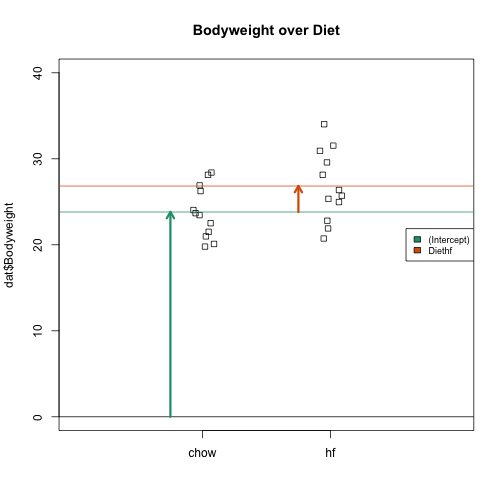
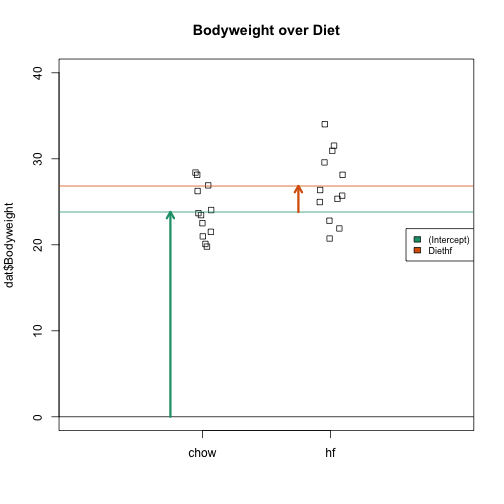
adding linear_models_in_practice to book

diff --git a/manuscript/linear_models_in_practice.md b/manuscript/linear_models_in_practice.md
@@ -1,0 +1,308 @@
+---
+title: Linear models in practice
+layout: page
+---
+
+
+
+## Linear Models In Practice
+
+R markdown document for this section available [here](https://github.com/genomicsclass/labs/tree/master/course2/linear_models_in_practice.Rmd).
+
+We will demonstrate how to analyze the high fat diet data using linear models instead of directly applying a t-test. We will demonstrate how, ultimately, these two approaches are equivalent. 
+
+We start by reading in the data and creating a quick stripchart:
+
+
+
+
+```r
+dat <- read.csv("femaleMiceWeights.csv") ##previously downloaded
+stripchart(dat$Bodyweight ~ dat$Diet, vertical=TRUE, method="jitter",
+           main="Bodyweight over Diet")
+```
+
+![Mice bodyweights stratified by diet.](images/R/linear_models_in_practice-tmp-bodyweight_by_diet_stripchart-1.png) 
+
+We can see that the high fat diet group appears to have higher weights on average, although there is overlap between the two samples.
+
+#### A linear model with one variable
+
+For demonstration purposes, we will build the design matrix {$$}\mathbf{X}{/$$} using the formula `~ Diet`. The group with the 1's in the second column is determined by the level of `Diet` which comes second; that is, the non-reference level. 
+
+
+```r
+levels(dat$Diet)
+```
+
+```
+## [1] "chow" "hf"
+```
+
+```r
+X <- model.matrix(~ Diet, data=dat)
+X
+```
+
+```
+##    (Intercept) Diethf
+## 1            1      0
+## 2            1      0
+## 3            1      0
+## 4            1      0
+## 5            1      0
+## 6            1      0
+## 7            1      0
+## 8            1      0
+## 9            1      0
+## 10           1      0
+## 11           1      0
+## 12           1      0
+## 13           1      1
+## 14           1      1
+## 15           1      1
+## 16           1      1
+## 17           1      1
+## 18           1      1
+## 19           1      1
+## 20           1      1
+## 21           1      1
+## 22           1      1
+## 23           1      1
+## 24           1      1
+## attr(,"assign")
+## [1] 0 1
+## attr(,"contrasts")
+## attr(,"contrasts")$Diet
+## [1] "contr.treatment"
+```
+
+```r
+colnames(X)
+```
+
+```
+## [1] "(Intercept)" "Diethf"
+```
+
+```r
+dat$Diet <- relevel(dat$Diet, ref="hf")
+model.matrix(~ Diet, data=dat)
+```
+
+```
+##    (Intercept) Dietchow
+## 1            1        1
+## 2            1        1
+## 3            1        1
+## 4            1        1
+## 5            1        1
+## 6            1        1
+## 7            1        1
+## 8            1        1
+## 9            1        1
+## 10           1        1
+## 11           1        1
+## 12           1        1
+## 13           1        0
+## 14           1        0
+## 15           1        0
+## 16           1        0
+## 17           1        0
+## 18           1        0
+## 19           1        0
+## 20           1        0
+## 21           1        0
+## 22           1        0
+## 23           1        0
+## 24           1        0
+## attr(,"assign")
+## [1] 0 1
+## attr(,"contrasts")
+## attr(,"contrasts")$Diet
+## [1] "contr.treatment"
+```
+
+After trying out the `relevel` function, we finally reset `chow` as the reference level because we want the comparison to be {$$}hf - chow{/$$}:
+
+
+```r
+dat$Diet <- relevel(dat$Diet, ref="chow")
+```
+
+## The Mathematics Behind lm()
+
+R markdown document for this section available [here](https://github.com/genomicsclass/labs/tree/master/course2/linear_models_in_practice.Rmd).
+
+Before we use our shortcut for running linear models, `lm`, we want to review what will happen internally. Inside of `lm`, we will form the design matrix {$$}\mathbf{X}{/$$}, and calculate the {$$}\boldsymbol{\beta}{/$$} which minimizes the sum of squares, as described in a previous lecture. The formula for this solution is:
+
+{$$} \hat{\boldsymbol{\beta}} = (\mathbf{X}^t \mathbf{X})^{-1} \mathbf{X}^t \mathbf{Y} {/$$}
+
+We can calculate this in R using our matrix multiplication operator `%*%`, the inverse function `solve` and the transpose function `t`.
+
+
+
+```r
+Y <- dat$Bodyweight
+X <- model.matrix(~ Diet, data=dat)
+solve(t(X) %*% X) %*% t(X) %*% Y
+```
+
+```
+##                  [,1]
+## (Intercept) 23.813333
+## Diethf       3.020833
+```
+
+These coefficients are the average of the control group and the difference of the averages:
+
+
+
+```r
+s <- split(dat$Bodyweight, dat$Diet)
+mean(s[["chow"]])
+```
+
+```
+## [1] 23.81333
+```
+
+```r
+mean(s[["hf"]]) - mean(s[["chow"]])
+```
+
+```
+## [1] 3.020833
+```
+
+Finally, we use our shortcut, `lm`, to run the linear model:
+
+
+```r
+fit <- lm(Bodyweight ~ Diet, data=dat)
+summary(fit)
+```
+
+```
+## 
+## Call:
+## lm(formula = Bodyweight ~ Diet, data = dat)
+## 
+## Residuals:
+##     Min      1Q  Median      3Q     Max 
+## -6.1042 -2.4358 -0.4138  2.8335  7.1858 
+## 
+## Coefficients:
+##             Estimate Std. Error t value Pr(>|t|)    
+## (Intercept)   23.813      1.039  22.912   <2e-16 ***
+## Diethf         3.021      1.470   2.055   0.0519 .  
+## ---
+## Signif. codes:  0 '***' 0.001 '**' 0.01 '*' 0.05 '.' 0.1 ' ' 1
+## 
+## Residual standard error: 3.6 on 22 degrees of freedom
+## Multiple R-squared:  0.1611,	Adjusted R-squared:  0.1229 
+## F-statistic: 4.224 on 1 and 22 DF,  p-value: 0.05192
+```
+
+```r
+(coefs <- coef(fit))
+```
+
+```
+## (Intercept)      Diethf 
+##   23.813333    3.020833
+```
+
+#### Examining the coefficients
+
+The following large and clunky piece of code allows us to visualize the meaning of the coefficients with colored arrows:
+
+
+```r
+stripchart(dat$Bodyweight ~ dat$Diet, vertical=TRUE, method="jitter",
+           main="Bodyweight over Diet", ylim=c(0,40), xlim=c(0,3))
+a <- -0.25
+lgth <- .1
+library(RColorBrewer)
+cols <- brewer.pal(3,"Dark2")
+abline(h=0)
+arrows(1+a,0,1+a,coefs[1],lwd=3,col=cols[1],length=lgth)
+abline(h=coefs[1],col=cols[1])
+arrows(2+a,coefs[1],2+a,coefs[1]+coefs[2],lwd=3,col=cols[2],length=lgth)
+abline(h=coefs[1]+coefs[2],col=cols[2])
+legend("right",names(coefs),fill=cols,cex=.75,bg="white")
+```
+
+![Estimated linear model coefficients for bodyweight data illustrated with arrows.](images/R/linear_models_in_practice-tmp-parameter_estimate_illustration-1.png) 
+
+## Comparing Simple Two Group lm to a t-test
+
+R markdown document for this section available [here](https://github.com/genomicsclass/labs/tree/master/course2/linear_models_in_practice.Rmd).
+
+To make a connection with material presented earlier, this simple linear model is actually giving us the same result (the t-statistic and p-value) for the difference as a specific kind of t-test. This is the t-test between two groups with the assumption that both groups have the same variance. This was encoded into our linear model when we assumed that the errors {$$}\boldsymbol{\varepsilon}{/$$} were all equally distributed.
+
+Though, in this case, the linear model is equivalent to a t-test, we will soon explore more complicated designs, where the linear model is a useful extension.
+
+Our `lm` coefficients were:
+
+
+```r
+summary(fit)$coefficients
+```
+
+```
+##              Estimate Std. Error   t value     Pr(>|t|)
+## (Intercept) 23.813333   1.039353 22.911684 7.642256e-17
+## Diethf       3.020833   1.469867  2.055174 5.192480e-02
+```
+
+And the t-statistic of the t-test is the same, with a flipped sign:
+
+
+```r
+(ttest <- t.test(s[["chow"]], s[["hf"]], var.equal=TRUE))
+```
+
+```
+## 
+## 	Two Sample t-test
+## 
+## data:  s[["chow"]] and s[["hf"]]
+## t = -2.0552, df = 22, p-value = 0.05192
+## alternative hypothesis: true difference in means is not equal to 0
+## 95 percent confidence interval:
+##  -6.06915183  0.02748516
+## sample estimates:
+## mean of x mean of y 
+##  23.81333  26.83417
+```
+
+```r
+summary(fit)$coefficients[2,3]
+```
+
+```
+## [1] 2.055174
+```
+
+```r
+ttest$statistic
+```
+
+```
+##         t 
+## -2.055174
+```
+
+If we put the high fat group first, we get the same sign as the linear model:
+
+
+```r
+t.test(s[["hf"]], s[["chow"]], var.equal=TRUE)$statistic
+```
+
+```
+##        t 
+## 2.055174
+```
+
